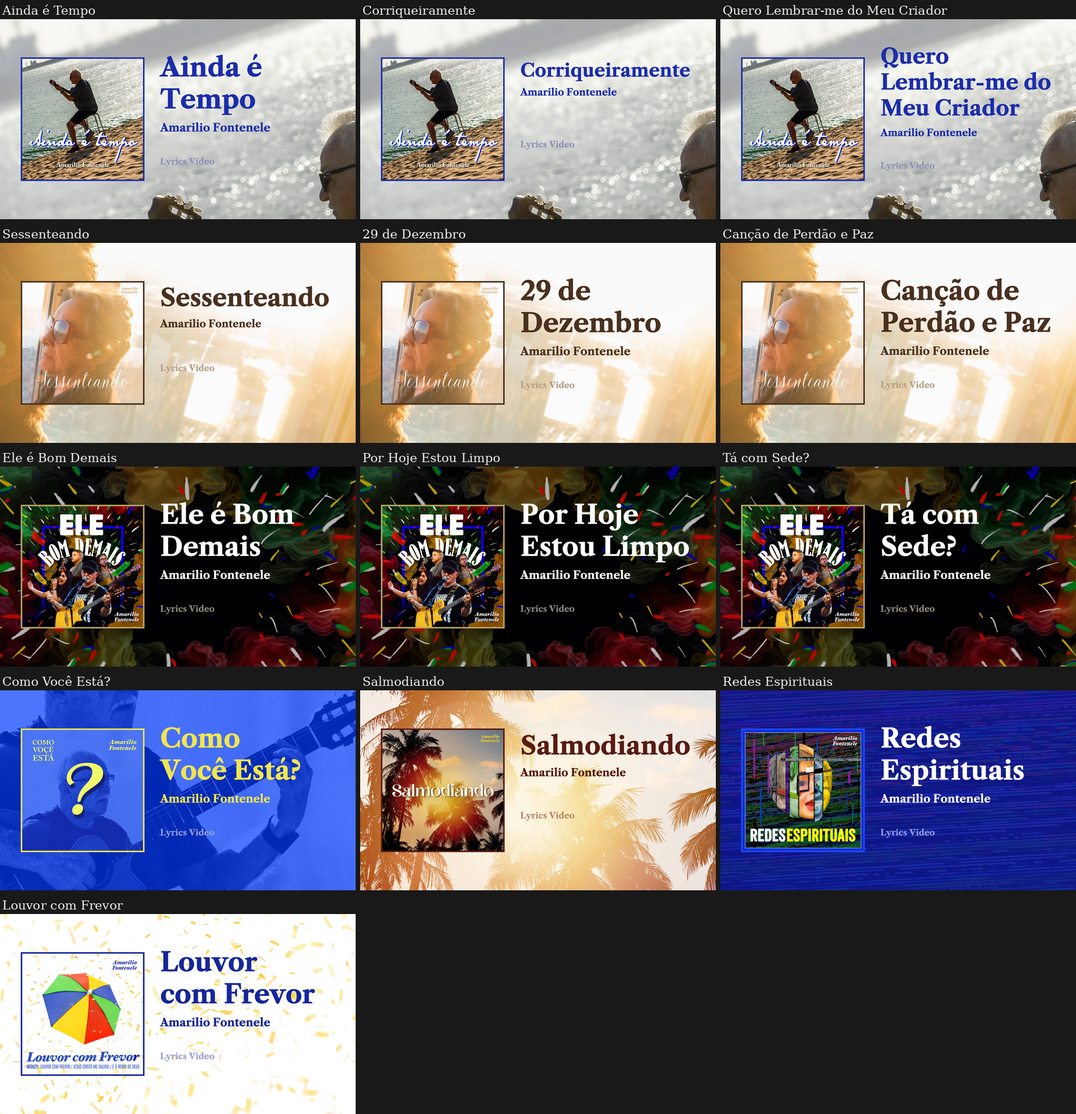
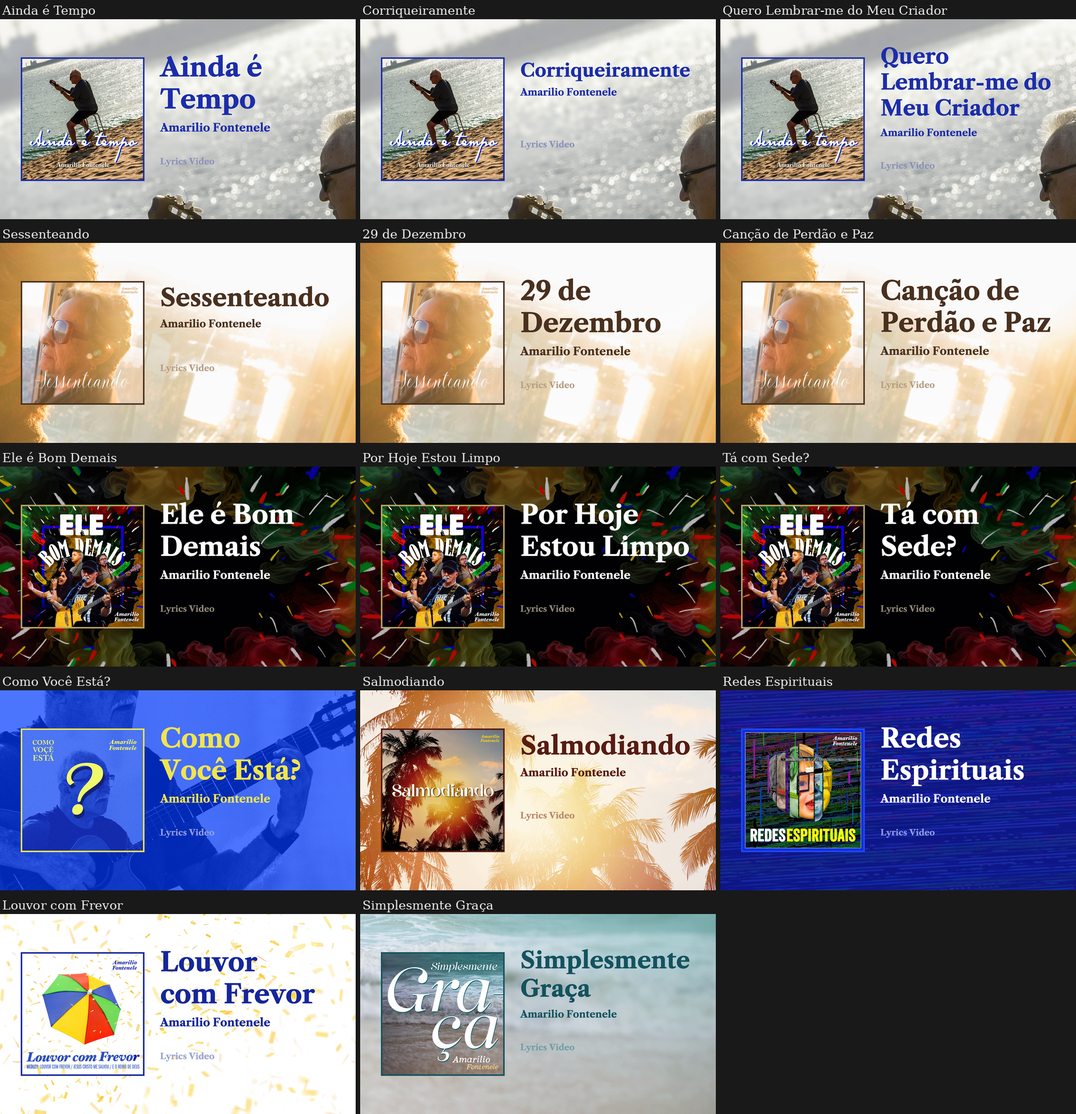
Add Simplesmente Graça: album assets, brand, and thumbnail slide
Claude-Session: https://claude.ai/code/session_01N6fdJFszcmZzpC6AWr67X7

Changed region(s): [[0.3095, 0.8043, 0.681, 1.0]]

diff --git a/tools/make_thumbs.py b/tools/make_thumbs.py
@@ -42,6 +42,7 @@ SONGS = [
     ("salmodiando", "Salmodiando", "salmodiando"),
     ("redes-espirituais", "Redes Espirituais", "redes-espirituais"),
     ("louvor-com-frevor", "Louvor com Frevor", "louvor-com-frevor"),
+    ("simplesmente-graca", "Simplesmente Graça", "simplesmente-graca"),
 ]
 
 
